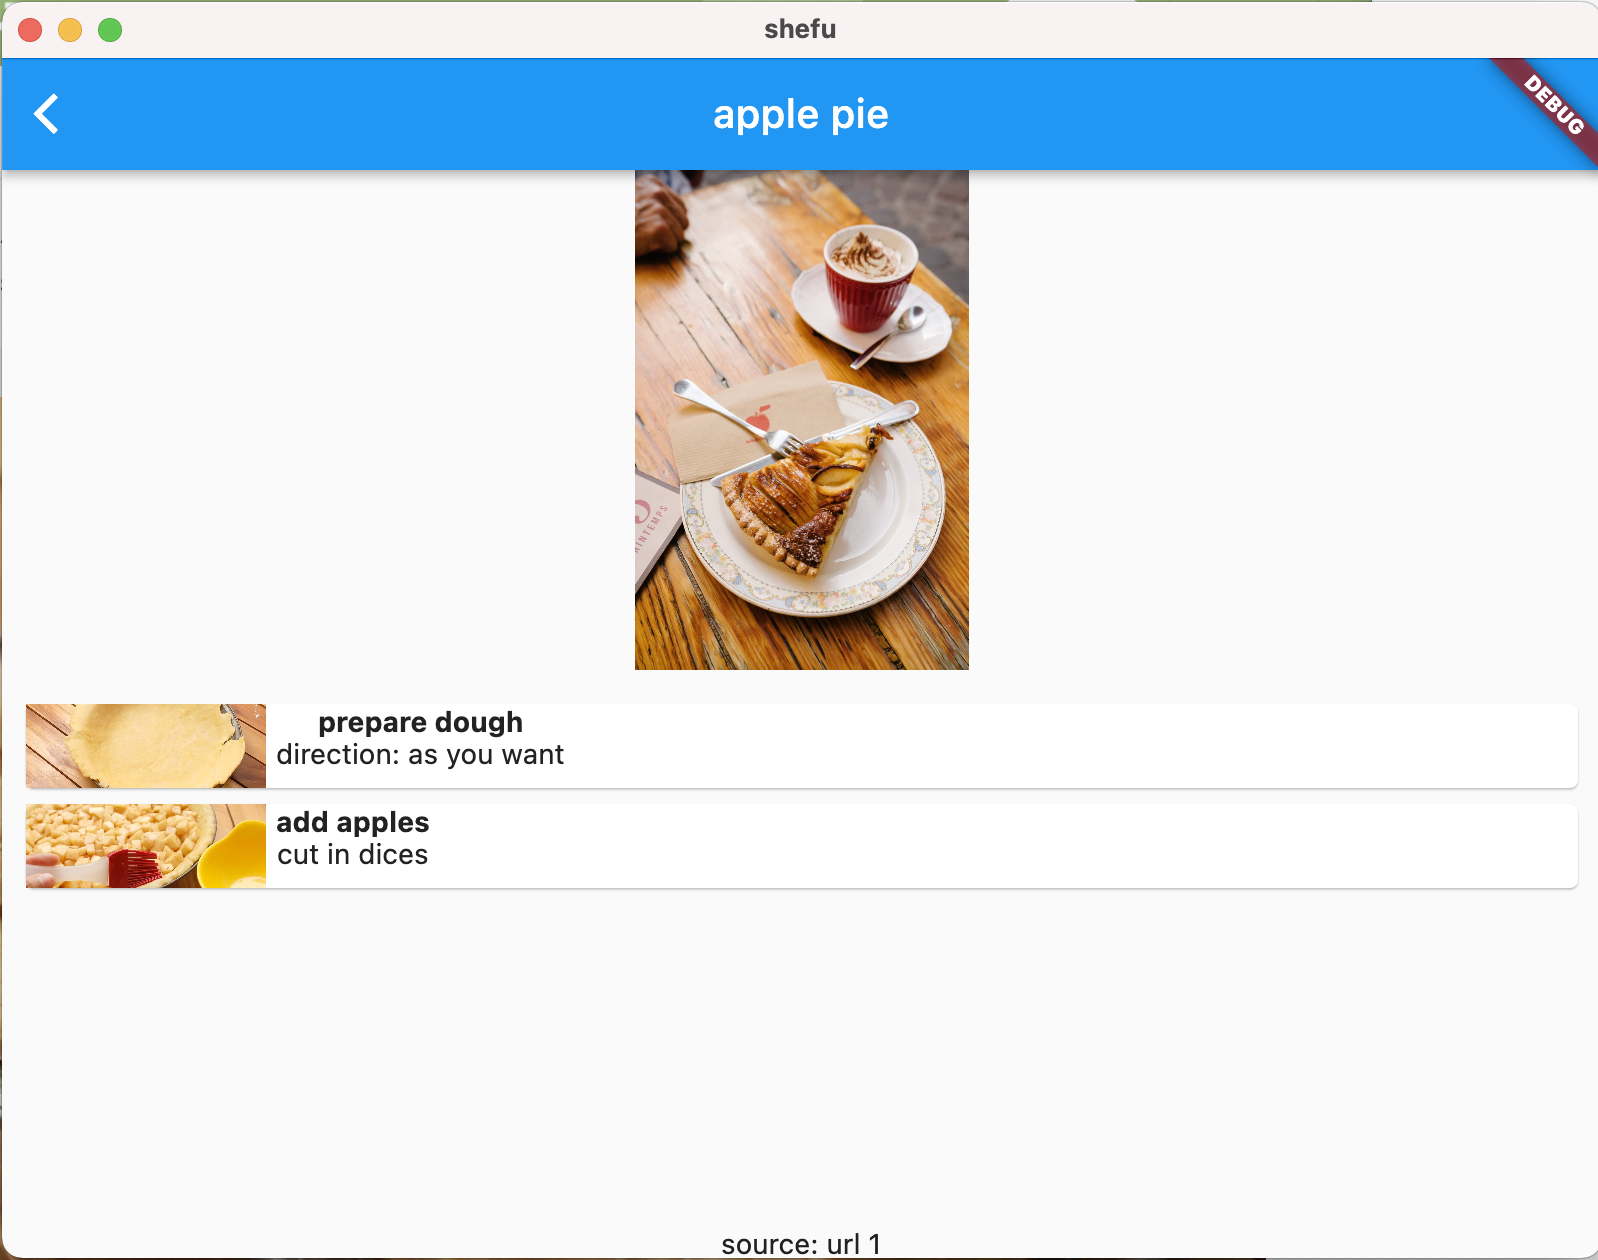
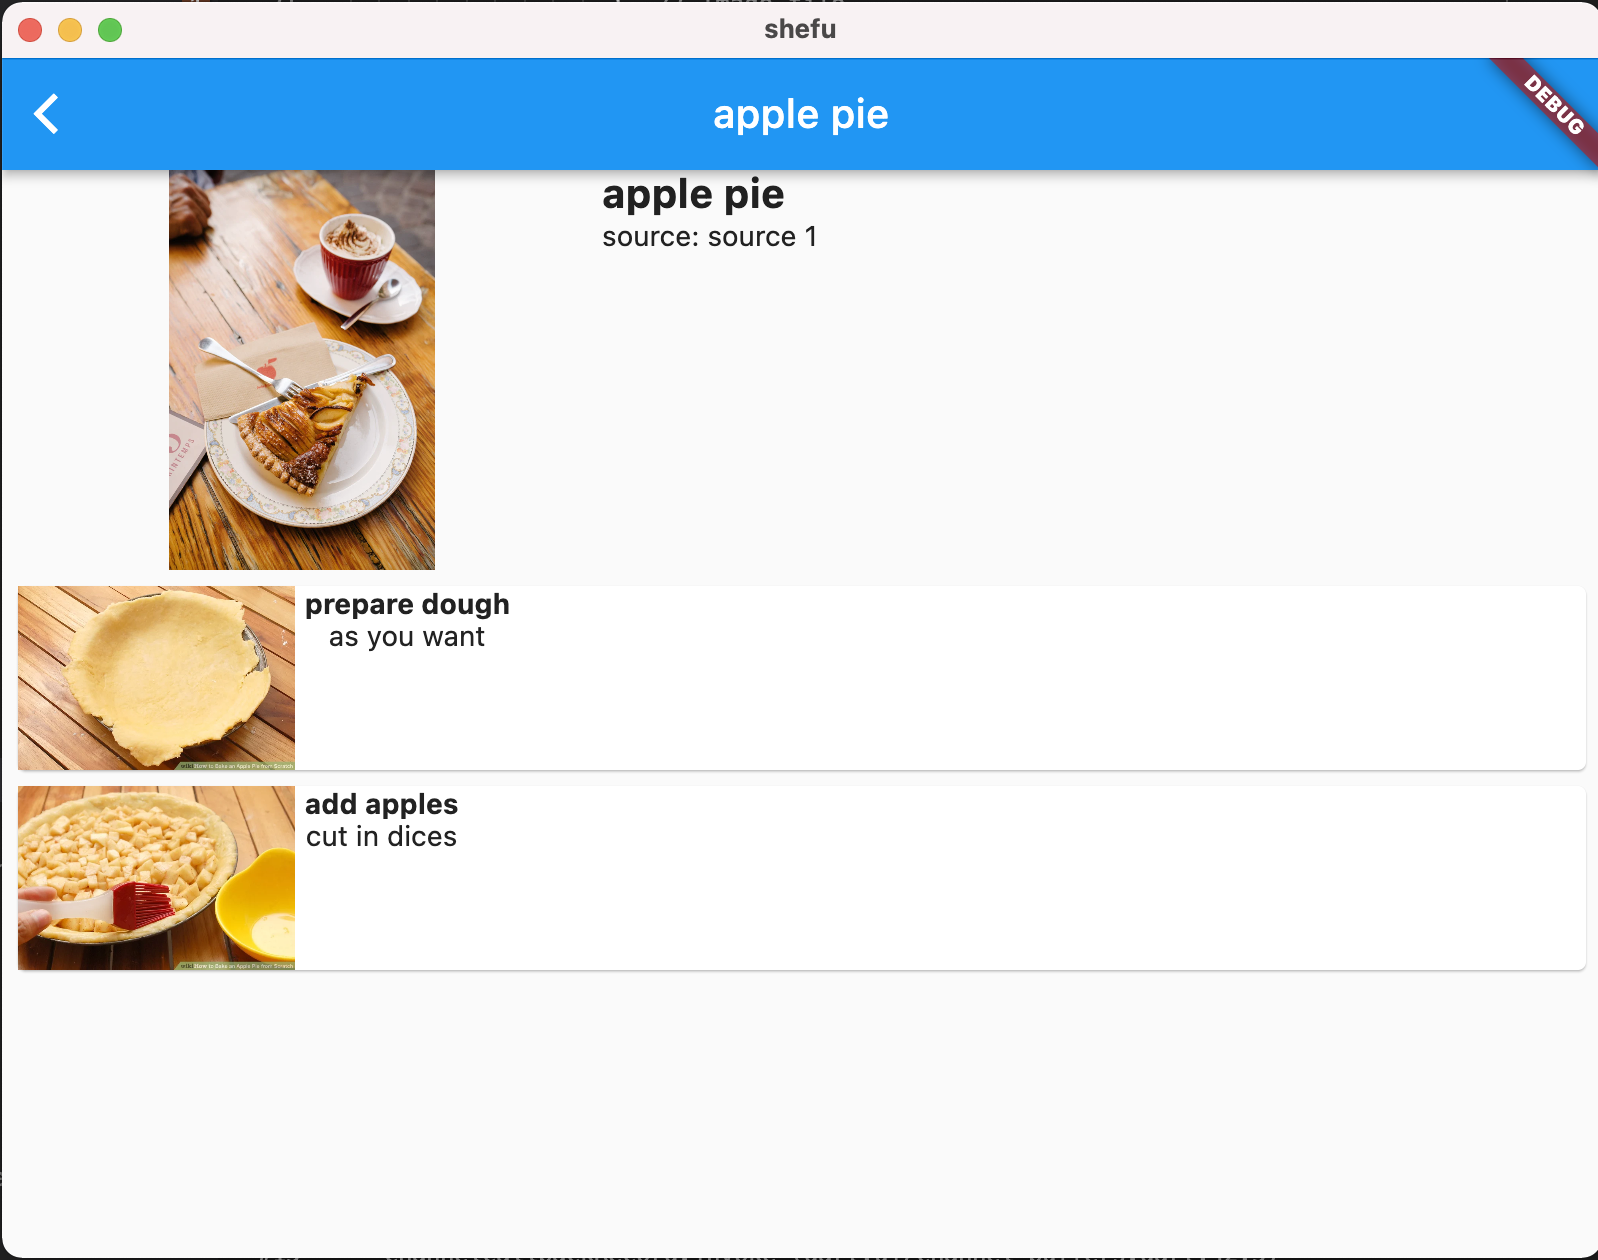
display recipe templating

diff --git a/lib/widgets/recipe_step_card.dart b/lib/widgets/recipe_step_card.dart
@@ -11,20 +11,32 @@ class RecipeStepCard extends StatelessWidget {
   Widget build(BuildContext context) {
     return Card(
       child: Row(
-        crossAxisAlignment: CrossAxisAlignment.start,
+        mainAxisAlignment: MainAxisAlignment.start,
         children: [
           recipe_step.image_path.isNotEmpty
               ? ClipRRect(
                   child: Image.file(
                     File(recipe_step.image_path),
-                    fit: BoxFit.fitWidth,
-                    width: 120,
+                    fit: BoxFit.cover,
                   ),
                 )
               : Container(),
           const SizedBox(
             width: 5,
           ),
+          // ingredients list
+          // TODO: display ingredients
+          // Flexible(
+          //     flex: 1,
+          //     child: ListView.builder(
+          //         itemCount: 2,
+          //         itemBuilder: (BuildContext context, int index) {
+          //           return ListTile(
+          //             leading: new MyBullet(),
+          //             title: Text('ingredient $index'),
+          //             //Text(recipe_step.ingredients[index].label);
+          //           );
+          //         })),
           Column(
             children: [
               Text(
@@ -39,6 +51,20 @@ class RecipeStepCard extends StatelessWidget {
             ],
           ),
         ],
+      ),
+    );
+  }
+}
+
+class MyBullet extends StatelessWidget {
+  @override
+  Widget build(BuildContext context) {
+    return new Container(
+      height: 10.0,
+      width: 10.0,
+      decoration: new BoxDecoration(
+        color: Colors.black,
+        shape: BoxShape.circle,
       ),
     );
   }

diff --git a/lib/screens/display_recipe.dart b/lib/screens/display_recipe.dart
@@ -3,6 +3,7 @@ import 'dart:io';
 import 'package:flutter/material.dart';
 
 import 'package:shefu/models/recipes.dart';
+import 'package:shefu/widgets/recipe_header.dart';
 import 'package:shefu/widgets/recipe_step_card.dart';
 
 class DisplayRecipe extends StatelessWidget {
@@ -19,30 +20,20 @@ class DisplayRecipe extends StatelessWidget {
         body: SafeArea(
           child: Column(
             children: [
-              SizedBox(
-                  height: 250,
-                  width: double.infinity,
-                  child: Image.file(
-                    File(recipe.image_path),
-                    fit: BoxFit.scaleDown,
-                  )),
-              const SizedBox(
-                height: 5,
-              ),
+              RecipeHeader(recipe: recipe),
               Flexible(
                 child: ListView.builder(
-                    padding: const EdgeInsets.all(8),
+                    padding: const EdgeInsets.all(4),
                     itemCount: recipe.steps.length,
                     itemBuilder: (BuildContext context, int index) {
                       return Container(
-                        height: 50,
+                        height: 100,
                         child: Center(
                             child: RecipeStepCard(
                                 recipe_step: recipe.steps[index])),
                       );
                     }),
               ),
-              Text('source: ${recipe.source}'),
             ],
           ),
         ));

diff --git a/lib/widgets/recipe_header.dart b/lib/widgets/recipe_header.dart
@@ -1,0 +1,42 @@
+import 'dart:io';
+
+import 'package:flutter/material.dart';
+import 'package:flutter/widgets.dart';
+import 'package:shefu/models/recipes.dart';
+
+class RecipeHeader extends StatelessWidget {
+  final Recipe recipe;
+  const RecipeHeader({Key? key, required this.recipe}) : super(key: key);
+
+  @override
+  Widget build(BuildContext context) {
+    return Container(
+      constraints: const BoxConstraints.expand(height: 200),
+      child: Row(
+        mainAxisAlignment: MainAxisAlignment.start,
+        children: [
+          SizedBox(
+              height: 200,
+              width: 300,
+              child: recipe.image_path.isNotEmpty
+                  ? Image.file(
+                      File(recipe.image_path),
+                      fit: BoxFit.contain,
+                    )
+                  : Container()),
+          Column(
+            crossAxisAlignment: CrossAxisAlignment.start,
+            children: [
+              Text(recipe.title,
+                  style: const TextStyle(
+                    fontWeight: FontWeight.w700,
+                    fontSize: 20,
+                  )),
+              Text('source: ${recipe.source}'),
+            ],
+          )
+        ],
+      ),
+    );
+  }
+}

diff --git a/lib/widgets/recipe_card.dart b/lib/widgets/recipe_card.dart
@@ -17,13 +17,15 @@ class RecipeCard extends StatelessWidget {
         child: Row(
           crossAxisAlignment: CrossAxisAlignment.start,
           children: [
-            ClipRRect(
-              child: Image.file(
-                File(recipe.image_path),
-                fit: BoxFit.fitWidth,
-                width: 120,
-              ),
-            ),
+            recipe.image_path.isNotEmpty
+                ? ClipRRect(
+                    child: Image.file(
+                      File(recipe.image_path),
+                      fit: BoxFit.fitWidth,
+                      width: 120,
+                    ),
+                  )
+                : Container(),
             const SizedBox(
               width: 5,
             ),
